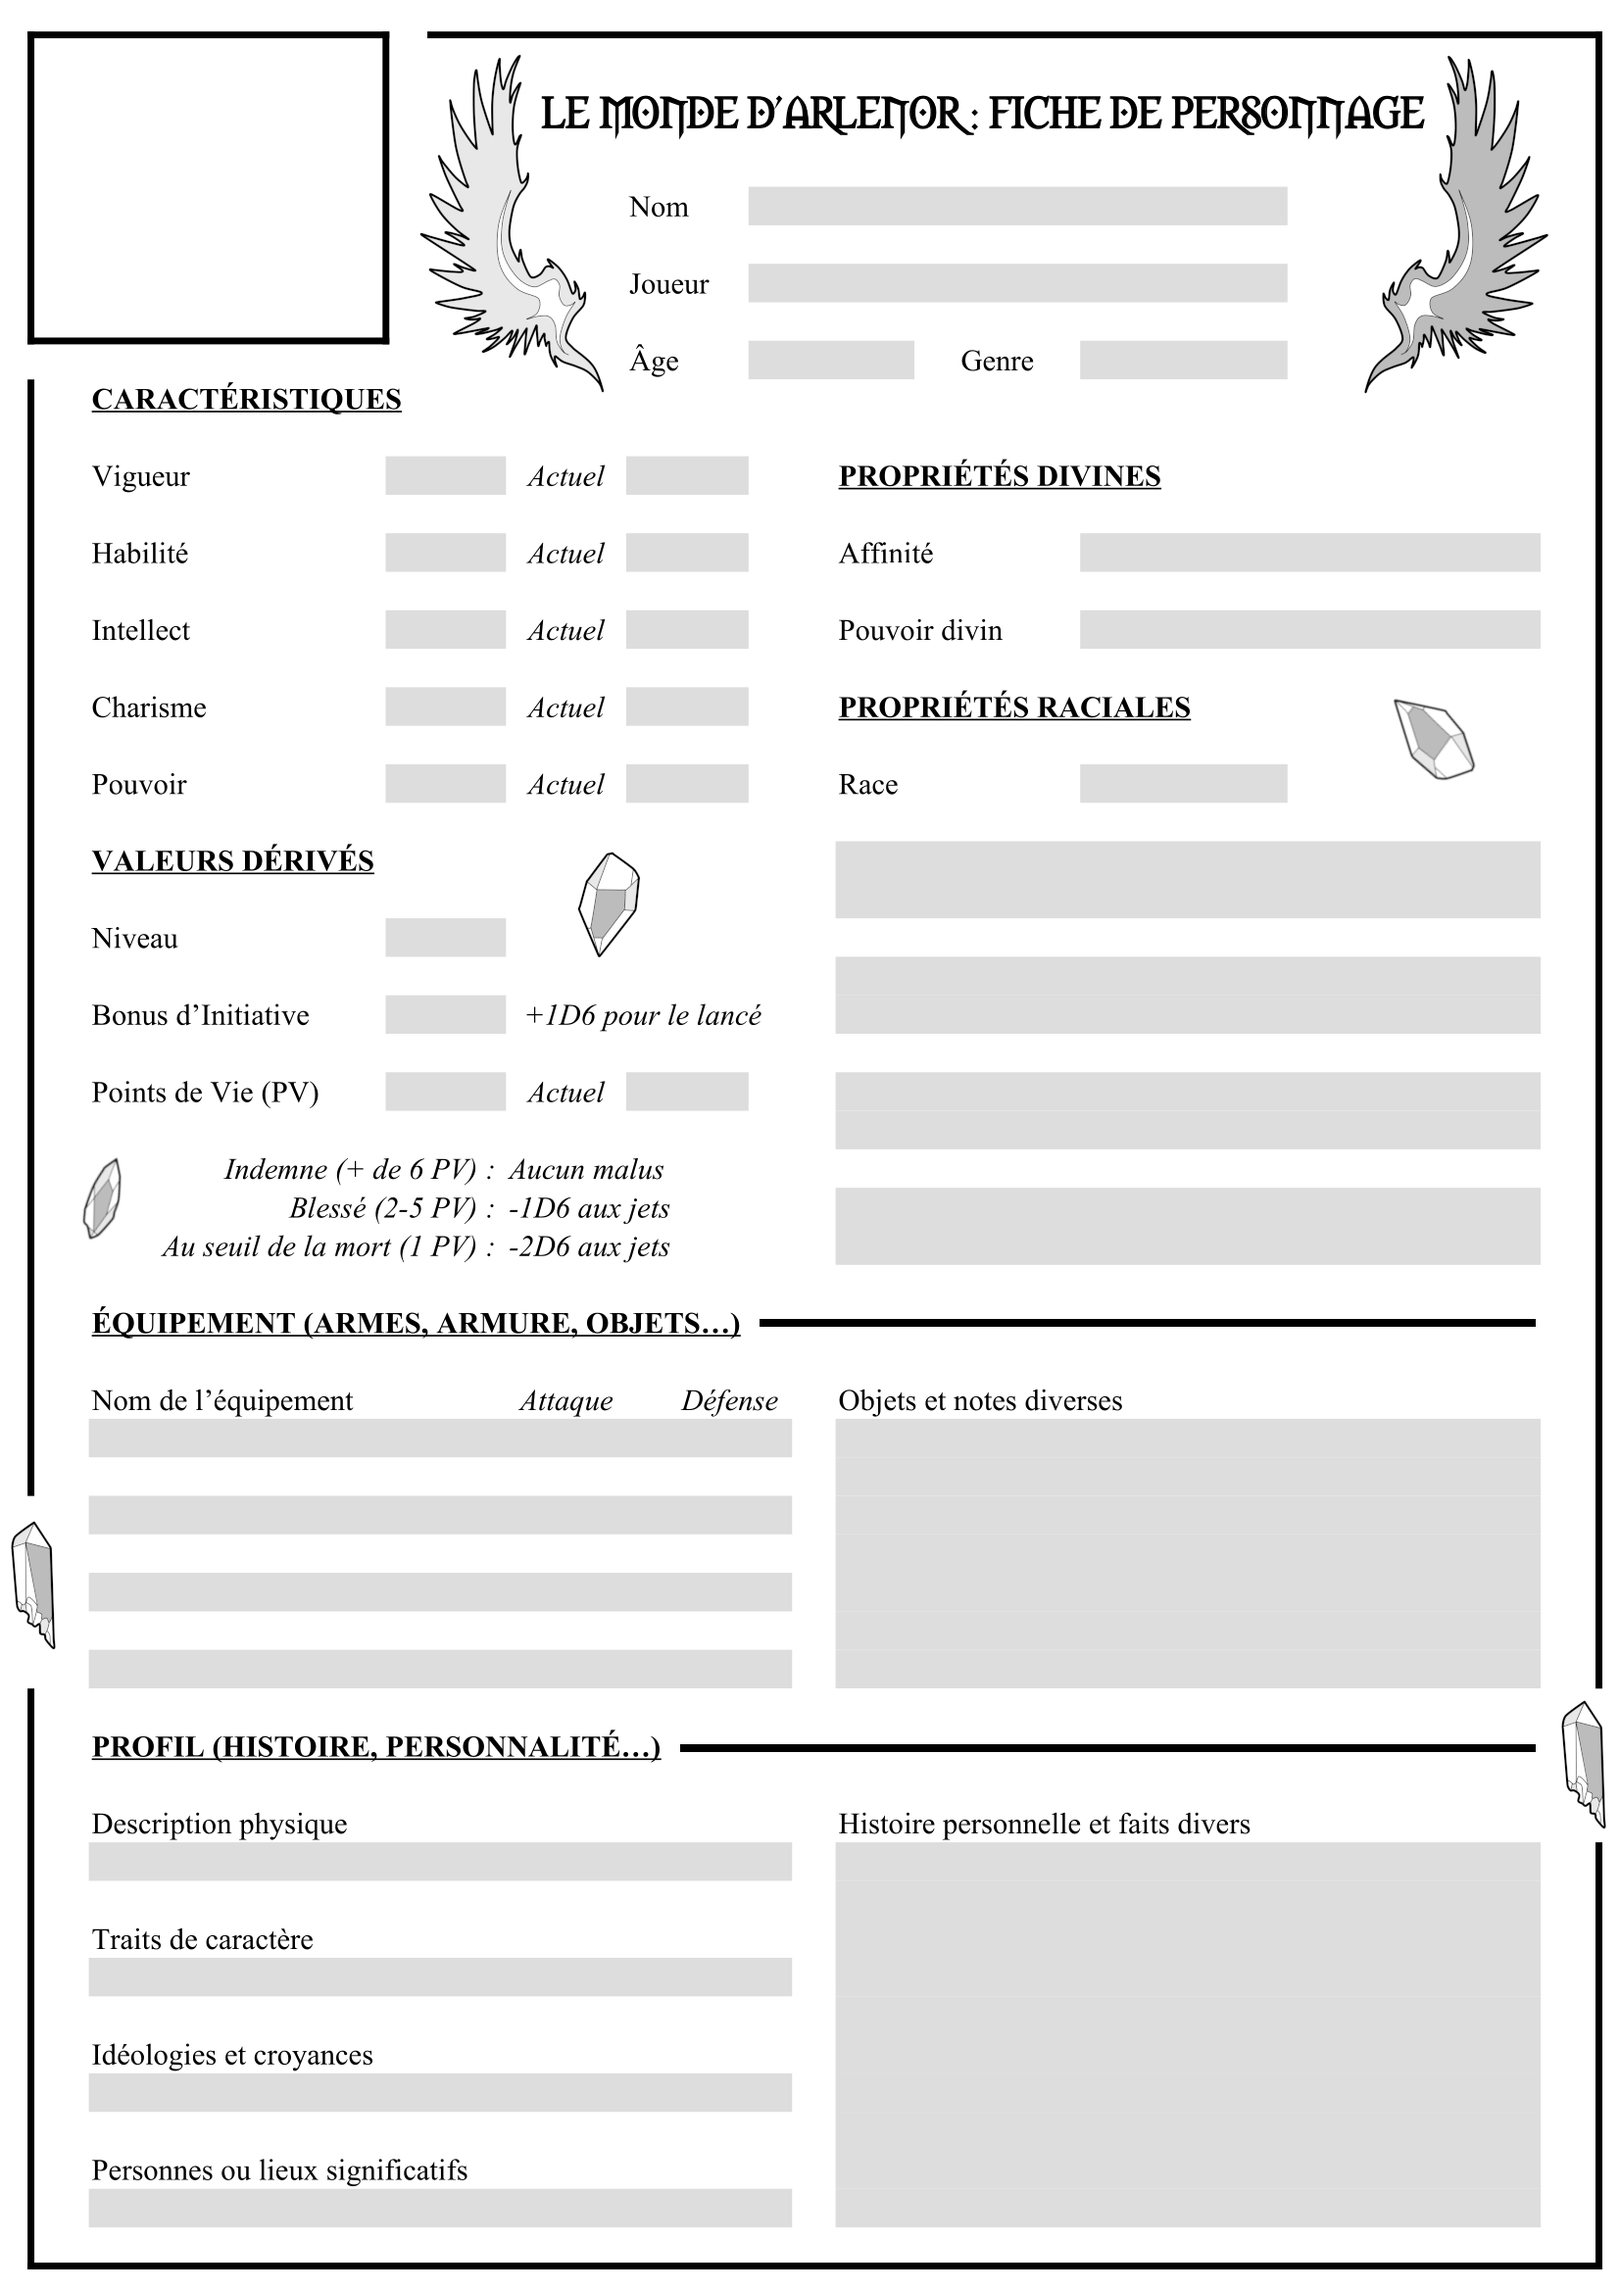
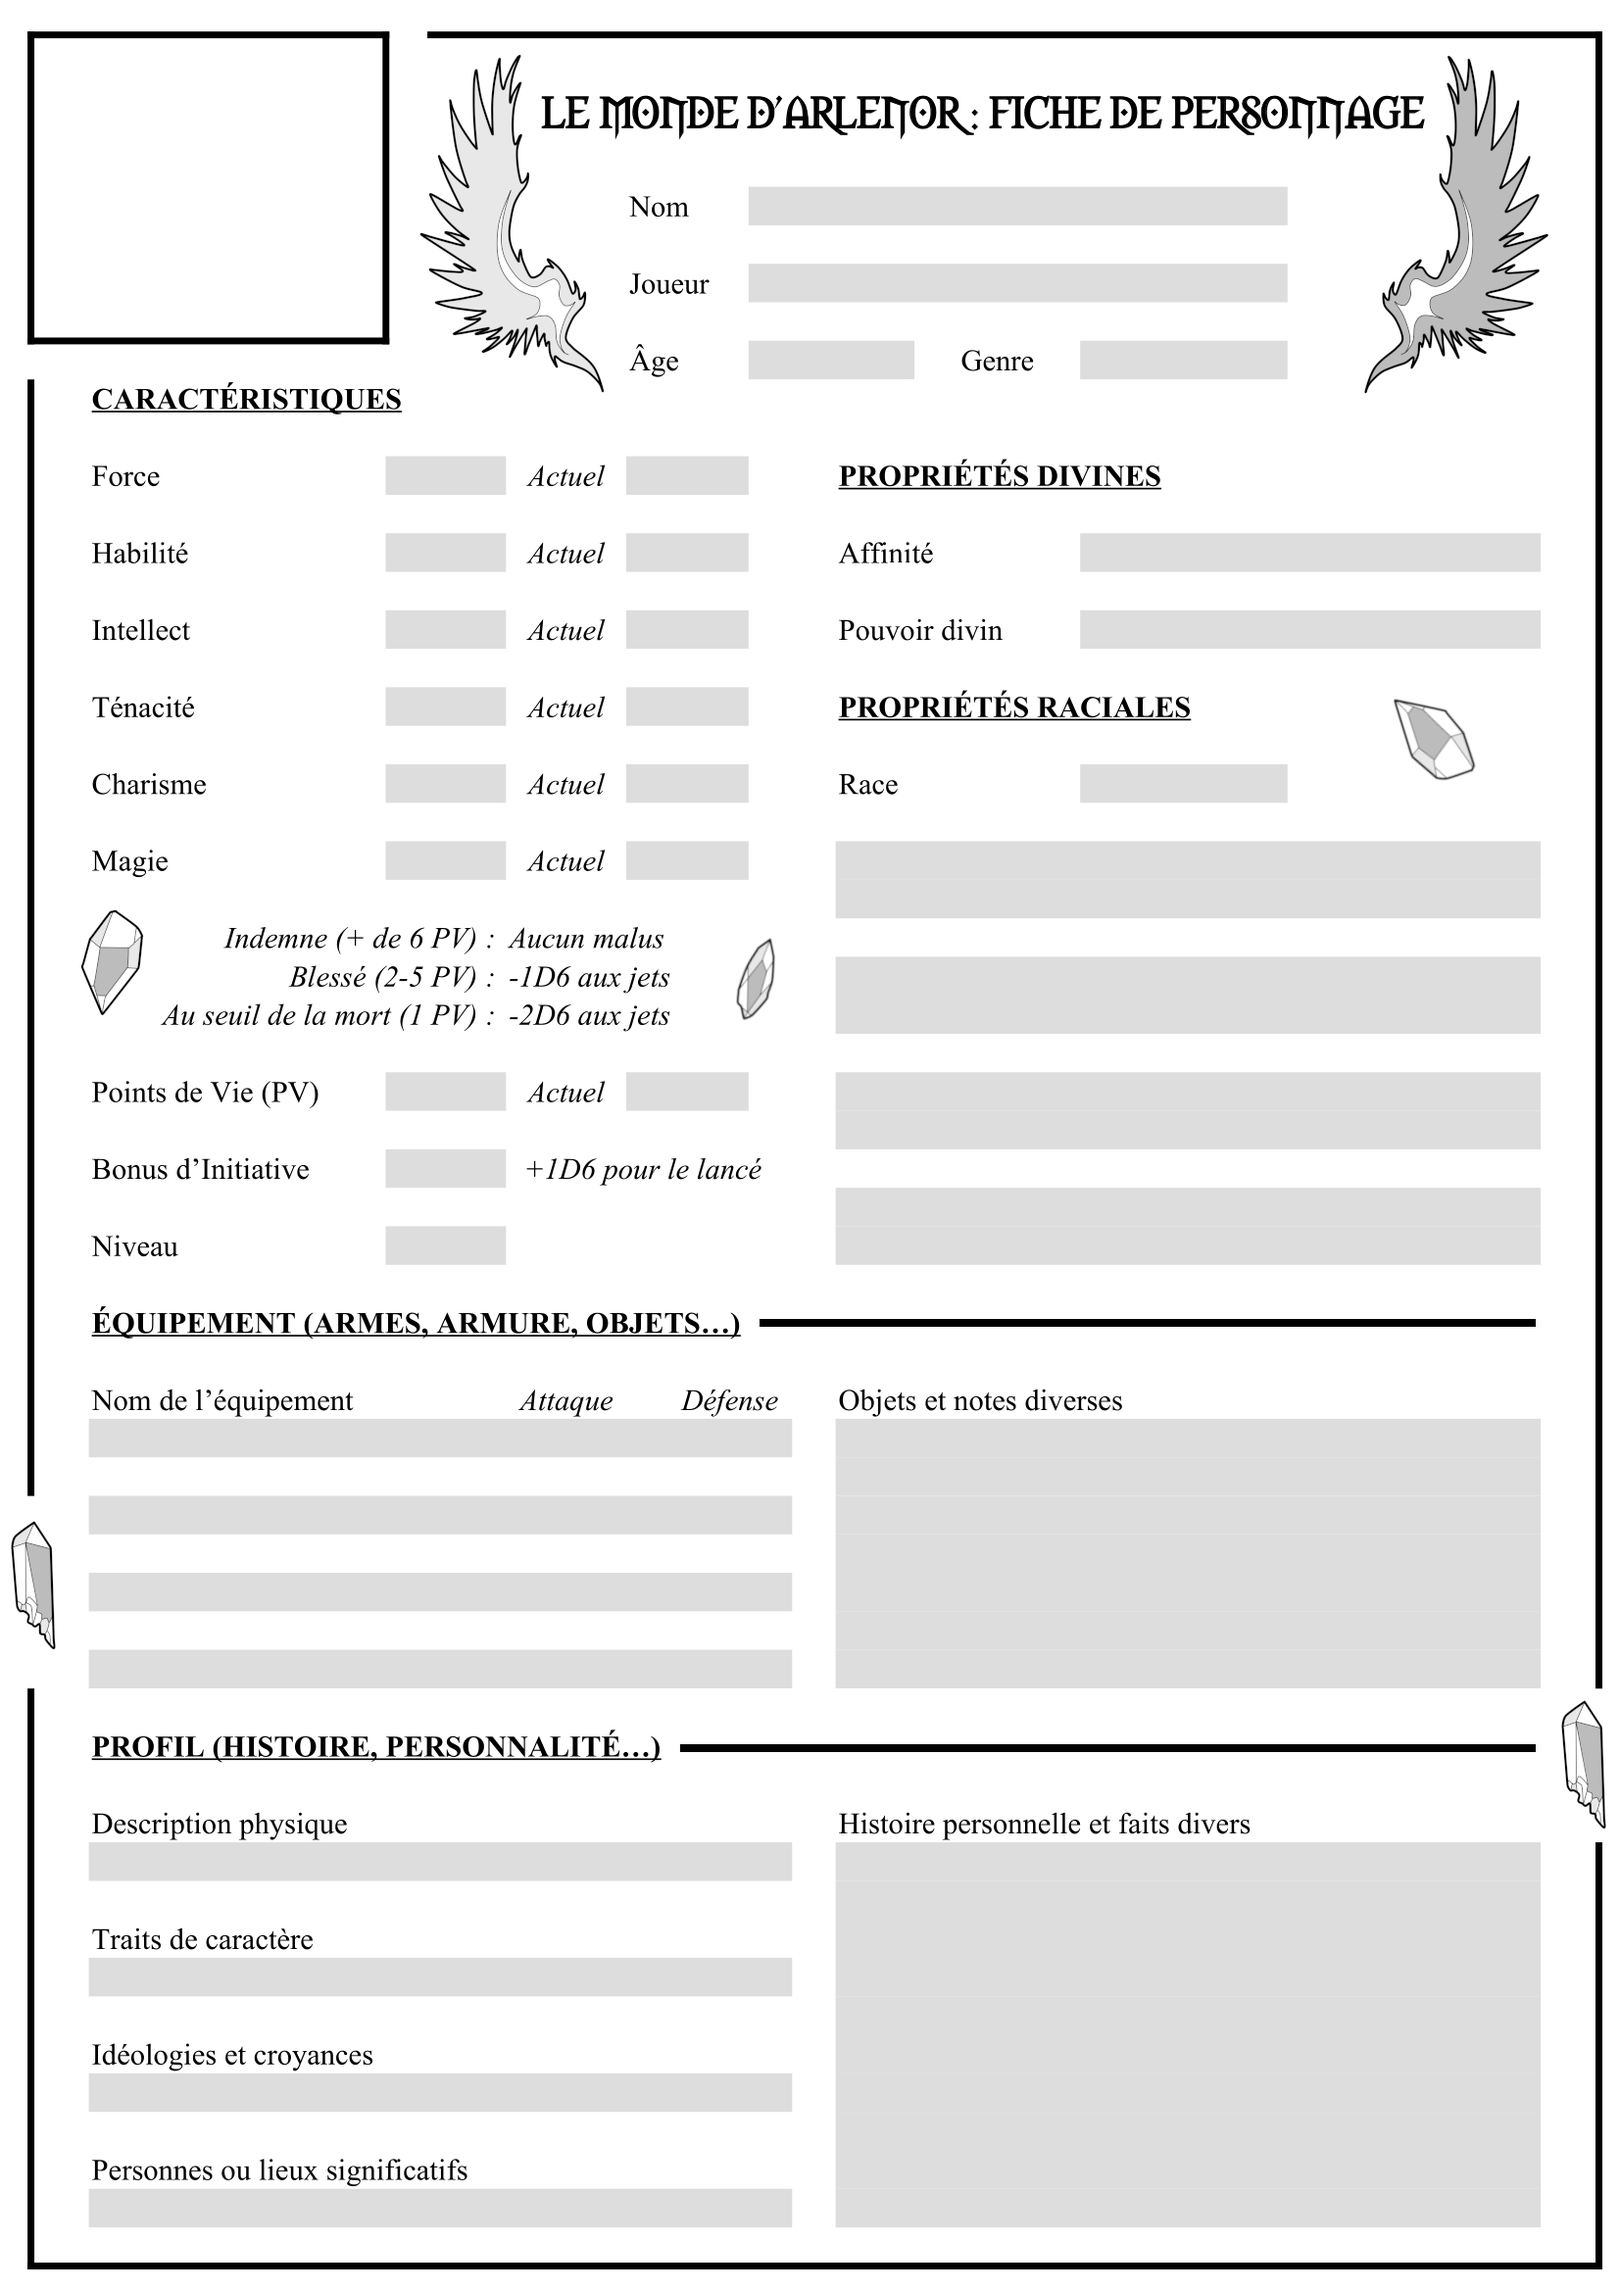
Fix(character): Fix the file with new attributes

diff --git a/src/utils/downloads.ts b/src/utils/downloads.ts
@@ -25,16 +25,18 @@ const downloadPDF = async(character: ArlenorCharacter): Promise<void> => {
   y += 21;
   doc.text("" + character.caracts.int, x, y, { align: "center" });
   y += 21;
+  doc.text("" + character.caracts.ten, x, y, { align: "center" });
+  y += 21;
   doc.text("" + character.caracts.cha, x, y, { align: "center" });
   y += 21;
   doc.text("" + character.caracts.mag, x, y, { align: "center" });
 
-  y += 43;
-  doc.text("" + character.level, x, y, { align: "center" });
+  y += 64;
+  doc.text("" + character.healthMax, x, y, { align: "center" });
   y += 21;
   doc.text("" + character.initiative, x, y, { align: "center" });
   y += 21;
-  doc.text("" + character.healthMax, x, y, { align: "center" });
+  doc.text("" + character.level, x, y, { align: "center" });
 
   // --- RACE
   x = 326;
